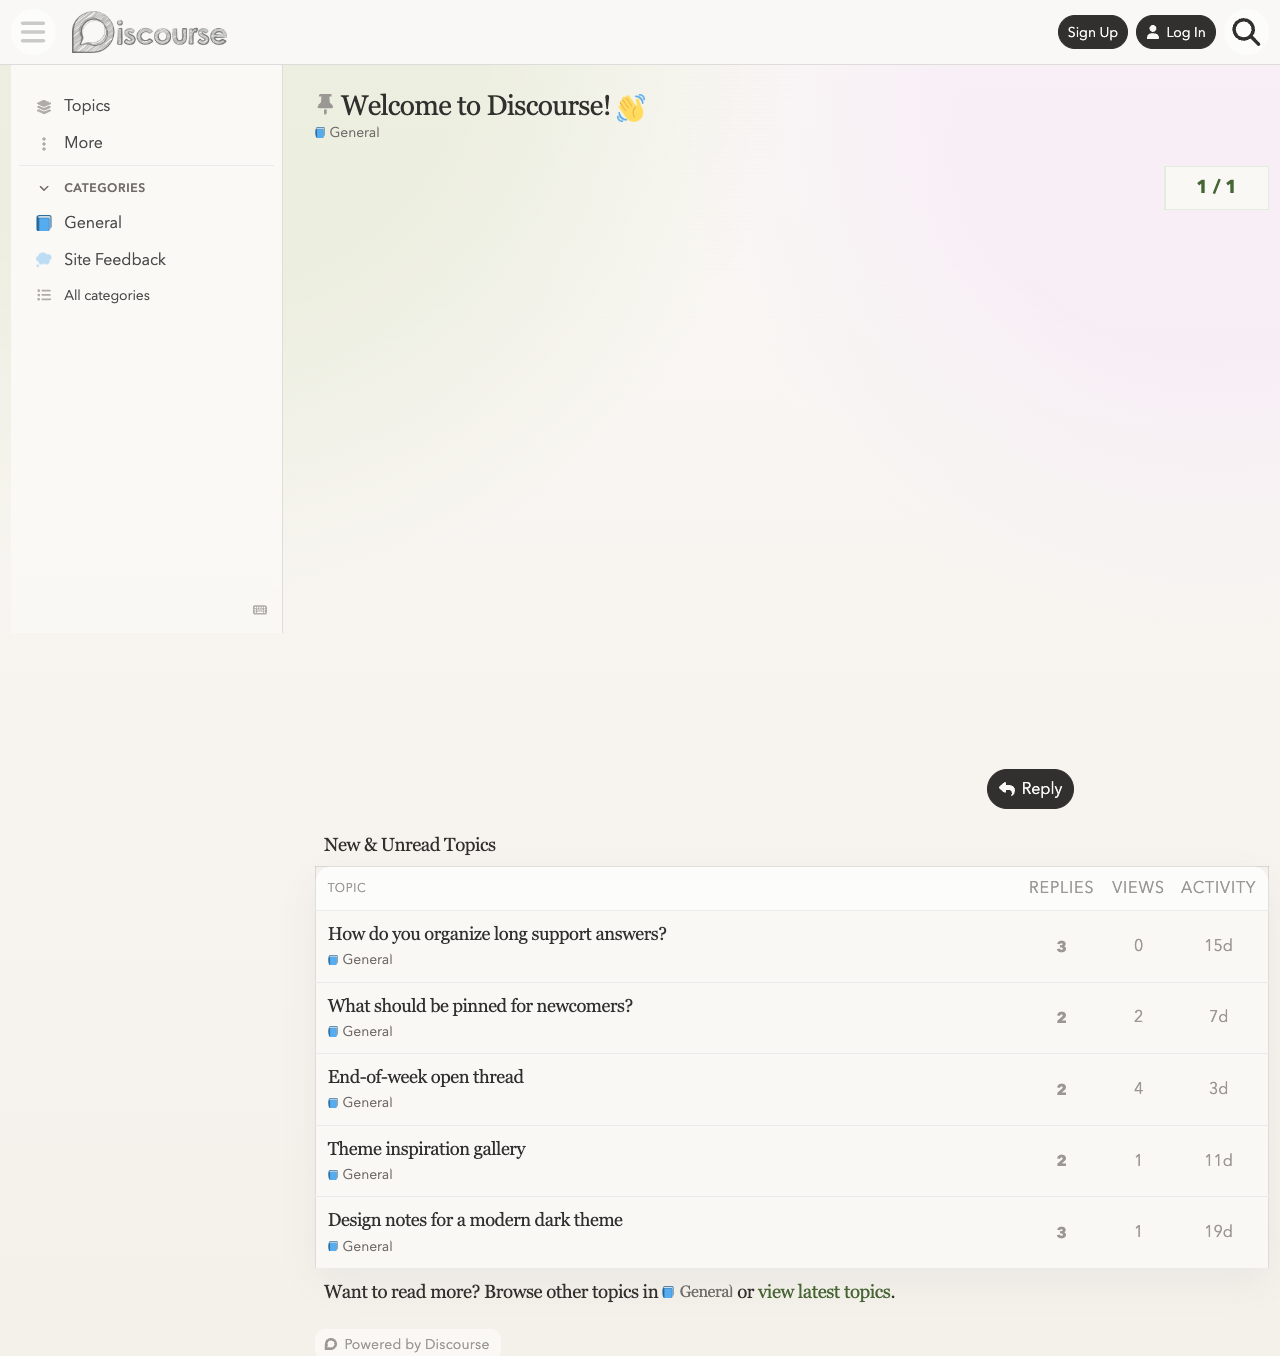
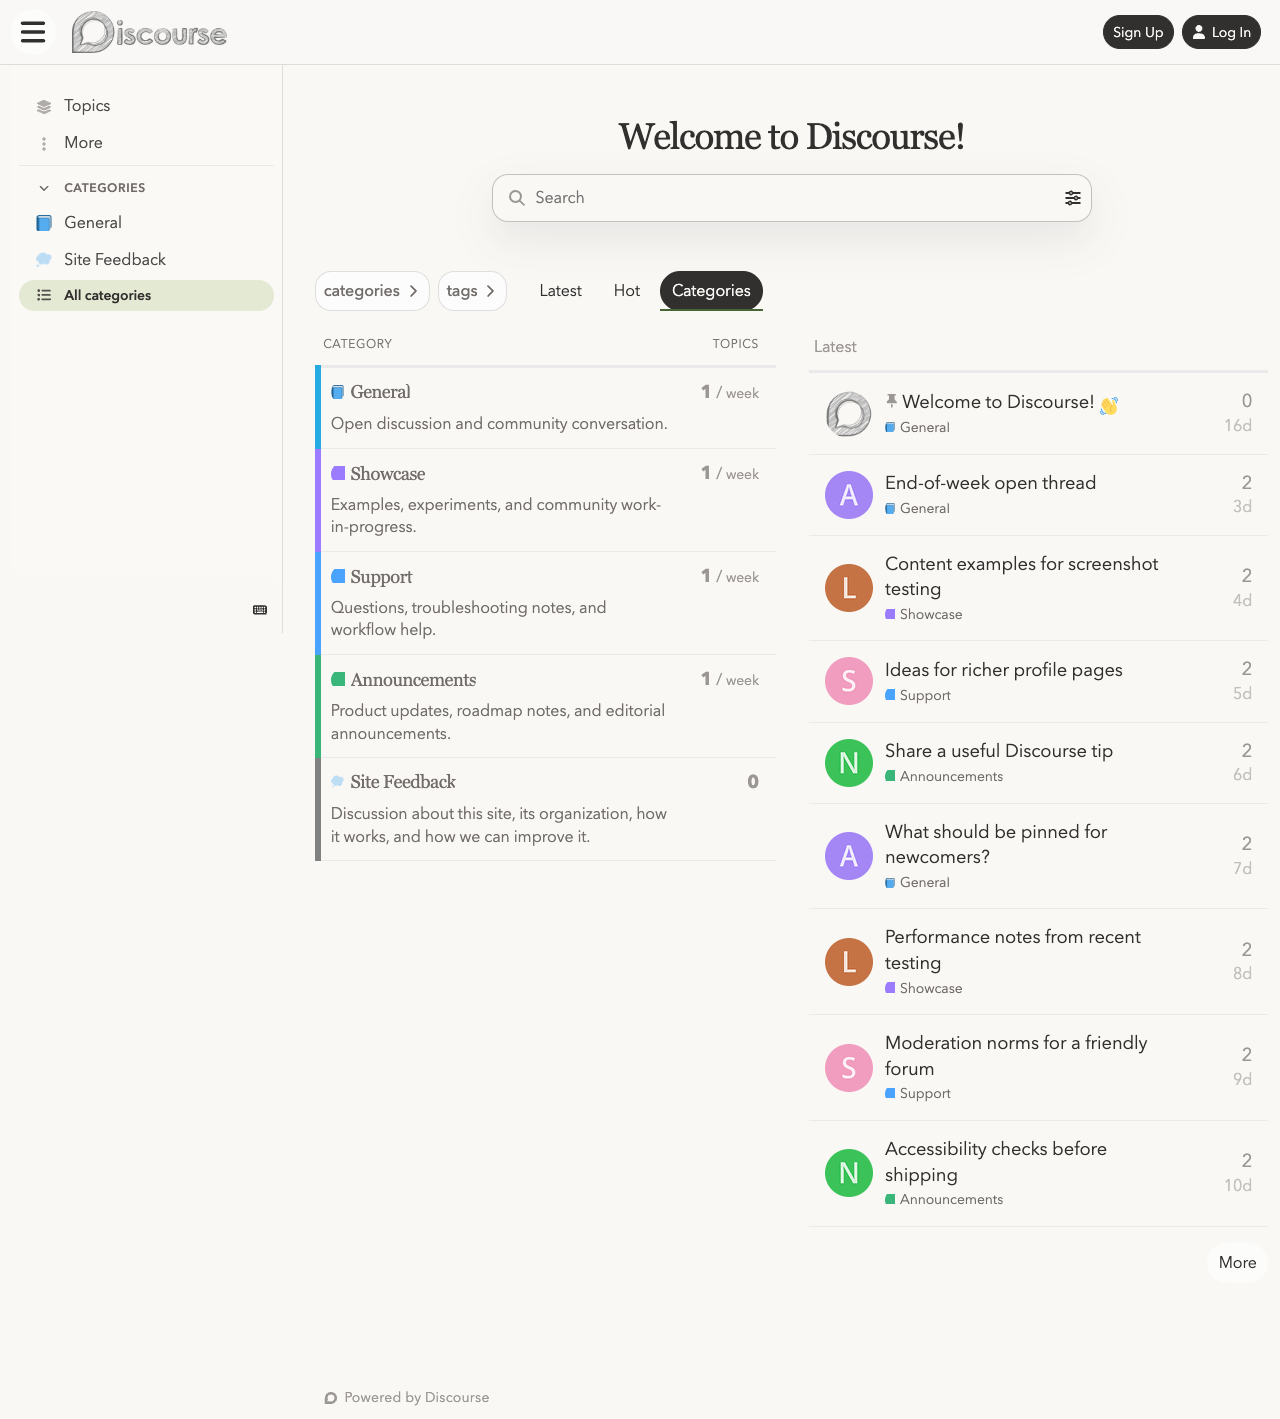
Clean up Summit content surfaces

diff --git a/common/common.scss b/common/common.scss
@@ -20,10 +20,7 @@
 }
 
 body {
-  background:
-    radial-gradient(circle at 15% 0%, color-mix(in srgb, var(--highlight) 62%, transparent) 0 18rem, transparent 38rem),
-    radial-gradient(circle at 95% 7%, color-mix(in srgb, #f6e7f8 55%, transparent) 0 15rem, transparent 34rem),
-    linear-gradient(180deg, var(--summit-paper) 0%, #f4f1eb 100%);
+  background: var(--summit-paper);
   color: var(--primary);
   letter-spacing: -0.006em;
 }
@@ -101,10 +98,10 @@ h4,
 .categories-list .category-list,
 .user-content,
 .directory table {
-  background: color-mix(in srgb, var(--summit-paper-raised) 92%, var(--secondary) 8%);
-  border: 1px solid var(--summit-border);
-  border-radius: var(--d-border-radius);
-  box-shadow: var(--summit-shadow);
+  background: transparent;
+  border: 1px solid transparent;
+  border-radius: 0;
+  box-shadow: none;
 }
 
 .topic-list th,
@@ -114,7 +111,7 @@ h4,
   font-size: 0.75rem;
   letter-spacing: 0.055em;
   text-transform: uppercase;
-  border-bottom-color: var(--summit-border);
+  border-bottom-color: transparent;
 }
 
 .topic-list-item,
@@ -126,7 +123,7 @@ h4,
 .topic-list-item:hover,
 .category-list tbody tr:hover,
 .latest-topic-list-item:hover {
-  background: color-mix(in srgb, var(--summit-sage-soft) 58%, transparent);
+  background: color-mix(in srgb, var(--summit-sage-soft) 42%, transparent);
 }
 
 .topic-list .main-link a.title,
@@ -199,6 +196,8 @@ button {
 .btn svg,
 button .d-icon,
 button svg,
+.btn .d-icon svg,
+button .d-icon svg,
 .btn:hover .d-icon,
 .btn:hover svg,
 .btn:focus .d-icon,
@@ -207,8 +206,8 @@ button:hover .d-icon,
 button:hover svg,
 button:focus .d-icon,
 button:focus svg {
-  color: currentColor;
-  fill: currentColor;
+  color: inherit !important;
+  fill: currentColor !important;
 }
 
 input[type="text"],
@@ -242,11 +241,10 @@ textarea:focus,
 }
 
 .welcome-banner {
-  background:
-    linear-gradient(135deg, color-mix(in srgb, var(--summit-sage-soft) 72%, white 28%), color-mix(in srgb, var(--summit-lavender) 56%, var(--secondary) 44%));
-  border: 1px solid var(--summit-border);
-  border-radius: 28px;
-  box-shadow: var(--summit-shadow);
+  background: transparent;
+  border: 1px solid transparent;
+  border-radius: 0;
+  box-shadow: none;
 }
 
 .welcome-banner .welcome-banner__title,
@@ -257,10 +255,10 @@ textarea:focus,
 }
 
 .topic-post article {
-  background: color-mix(in srgb, var(--summit-paper-raised) 92%, var(--secondary) 8%);
-  border-color: var(--summit-border);
-  border-radius: 22px;
-  box-shadow: 0 10px 28px rgba(var(--primary-rgb), 0.04);
+  background: transparent;
+  border-color: transparent;
+  border-radius: 0;
+  box-shadow: none;
 }
 
 .topic-avatar,
@@ -269,7 +267,7 @@ textarea:focus,
 }
 
 .topic-body {
-  border-top-color: var(--summit-border);
+  border-top-color: transparent;
 }
 
 .cooked blockquote,
@@ -280,14 +278,14 @@ aside.quote .title {
 }
 
 #reply-control {
-  background: color-mix(in srgb, var(--secondary) 92%, white 8%);
-  box-shadow: 0 -14px 34px rgba(var(--primary-rgb), 0.08);
+  background: var(--secondary);
+  box-shadow: none;
 }
 
 .d-editor-container,
 .d-editor-textarea-wrapper {
   border-radius: 20px;
-  border-color: var(--summit-border);
+  border-color: transparent;
 }
 
 .menu-panel,